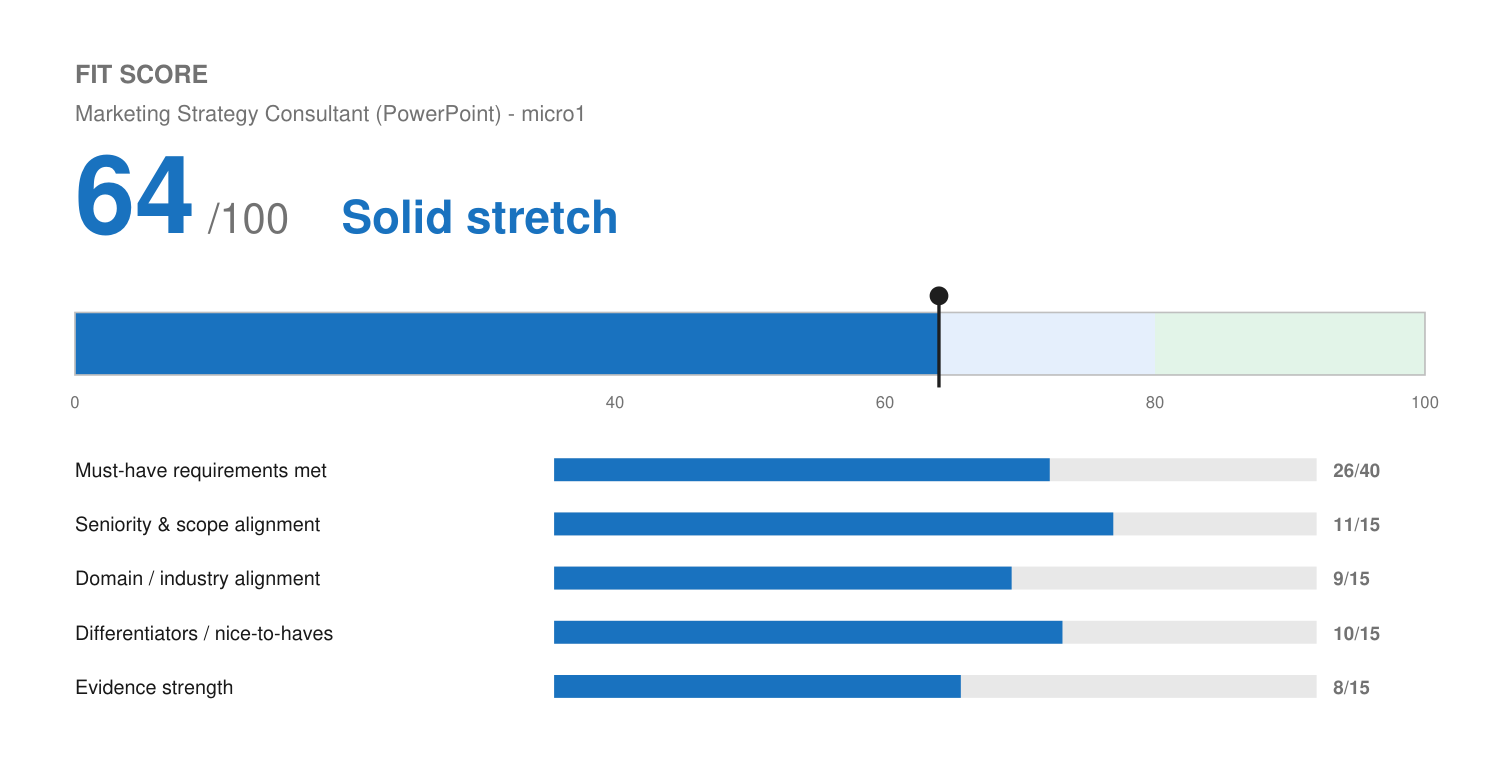
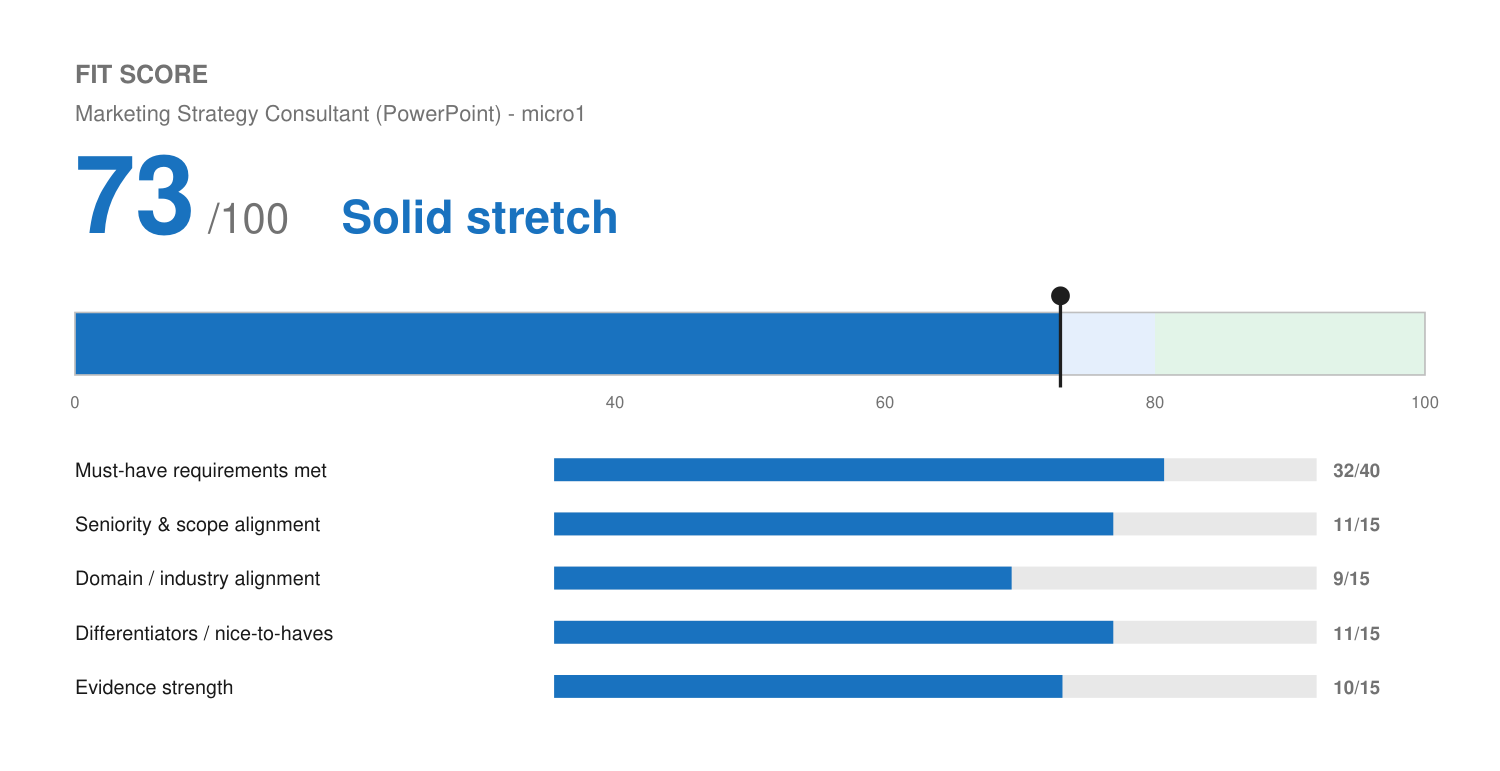
micro1: add interview prep; surface PowerPoint/deck skill (fit 64->73)
Josh confirmed strong deck-building expertise, substantiating the role's
#1 required skill. Updated resume (PowerPoint + executive deck design),
fit score 64->73, match report, and added a grounded interview-prep brief.

Claude-Session: https://claude.ai/code/session_01XNXFguRBAfdeYmwKktthiA

diff --git a/applications/micro1-marketing-strategy-consultant/match-report.md b/applications/micro1-marketing-strategy-consultant/match-report.md
@@ -9,29 +9,33 @@
 
 ## Fit Score
 
+> **Updated 2026-06-21:** Josh confirmed strong PowerPoint / deck-building skill ("I can
+> build a deck better than most"), substantiating the role's #1 required skill. Score
+> revised **64 → 73**; resume updated to surface PowerPoint and executive deck design.
+
 ```
-🔵 Fit Score: 64 / 100 — Solid stretch
-[█████████████░░░░░░░]  64%
+🔵 Fit Score: 73 / 100 — Solid stretch
+[███████████████░░░░░]  73%
 ```
 
-**64 / 100 — Solid stretch.** See `fit.png` for the gauge.
+**73 / 100 — Solid stretch (upper band).** See `fit.png` for the gauge.
 
 | Dimension | Score | Notes |
 | :--- | :--- | :--- |
-| Must-have requirements met | 26 / 40 | Strong on marketing strategy, storytelling, business operations, communication; weak on the two anchor asks — **expert PowerPoint decks** and **Fortune 500 enterprise** experience. |
+| Must-have requirements met | 32 / 40 | PowerPoint/deck craft now confirmed (their #1 ask). Strong on marketing strategy, storytelling, business operations, communication. Remaining soft spot: **Fortune 500 / enterprise** experience. |
 | Seniority & scope alignment | 11 / 15 | Contractor/consultant framing fits a founder-consultant well; flexible hourly contributor level. |
 | Domain / industry alignment | 9 / 15 | Marketing/MarTech domain is strong; the specific "enterprise brand presentation consulting" slant is a partial fit. |
-| Differentiators / nice-to-haves | 10 / 15 | Founder + 15 yrs marketing + genuine AI fluency (a real edge at an AI-training company, even though AI isn't required). |
-| Evidence strength | 8 / 15 | Solid marketing proof (+30% traffic / +25% conversion at Wix; published thought leadership); thin on PowerPoint-specific, enterprise-deck evidence. |
+| Differentiators / nice-to-haves | 11 / 15 | Founder + 15 yrs marketing + strong deck craft + genuine AI fluency (a real edge at an AI-training company, even though AI isn't required). |
+| Evidence strength | 10 / 15 | Solid marketing proof (+30% traffic / +25% conversion at Wix; published thought leadership) plus real decks he can demonstrate in the interview. |
 
-**Band guidance:** Solid stretch → low-cost contractor gig, so apply if interested, but lead hard with **marketing strategy + storytelling** and be ready to show real decks. Two honest gaps below would move this up if closed.
+**Band guidance:** Solid stretch (upper) → invited to interview. Lead with **marketing strategy + storytelling + deck craft** and *show real decks*. The one remaining drag is enterprise/Fortune-500 exposure.
 
 ## Knockouts
 - **None hard.** Remote, contractor, no clearance/license/work-auth/onsite gates.
 - ⚠ Note: "**Demonstrated success in Fortune 500 environments**" is listed as a *required* qualification. It's not a binary auto-reject, but it's a real soft gate (see gaps).
 
 ## Keyword coverage (required skills/quals)
-- ⚠ **Expert-level Microsoft PowerPoint, exec decks for major enterprises** — **GAP / unverified.** Not established in the master profile. Josh builds executive reporting, QBRs, and dashboards (presentation-adjacent), but "expert PowerPoint for Fortune 500" is not substantiated. *Not claimed on the resume.*
+- ✅ **Expert-level Microsoft PowerPoint, exec decks** — **confirmed by Josh** (builds decks "better than most"); now surfaced on the resume (Presentations & Executive Communication + Tools). The "for major enterprises" qualifier is the only part still partial (see Fortune 500 below).
 - ✅ **Marketing strategy** — strong (full-funnel strategy, demand gen, campaign strategy).
 - ⚠ **Branding** — partial (brand narrative, positioning, messaging, thought leadership; not enterprise brand-management).
 - ✅ **Storytelling & communication (written + verbal)** — strong (content strategist, thought leadership, technical translation).
@@ -49,8 +53,8 @@
 4. **AI fluency** — at an AI-training company, Josh's hands-on Claude/ChatGPT/agentic work is a genuine differentiator and signals he understands what high-quality model input looks like.
 
 ## Top gaps (honest, do not paper over)
-1. **PowerPoint expertise — the #1 required skill — is unverified.** The master profile lists Google Workspace/Slides, not PowerPoint or enterprise deck-building. I did **not** fabricate it. **If Josh genuinely has expert PowerPoint + executive-deck experience, tell me and I'll add it** (and it would lift Must-haves and Evidence meaningfully). If not, this role is a weak fit for its central deliverable.
-2. **Fortune 500 / enterprise marketing-team experience.** Real gap. Mitigate by leaning on his time *at* large tech companies (Wix is publicly traded) and the breadth of brands he's advised — but don't overstate.
+1. **Fortune 500 / enterprise marketing-team experience.** Now the primary remaining gap. Mitigate by leaning on his time *at* large tech companies (Wix is publicly traded; Birdeye) and the breadth of brands he's advised — but don't overstate enterprise client history.
+2. **PowerPoint — now resolved.** Josh confirmed strong deck-building skill, so the central deliverable is covered. To *prove* it in the interview, he should bring 1–2 real decks to walk through (see `interview-prep.md`, §4A). Optionally, add a line about this to the master profile so future applications carry it automatically.
 
 ## Metrics / proof needed (ask Josh)
 - Real examples of **executive presentations / decks** he's built (ideally with audience + outcome) — would directly answer the core ask.
@@ -61,7 +65,12 @@
 micro1 vets contributors via an AI recruiter rather than traditional referrals, so a network intro matters less here than for an FTE role. The lever that matters most is a **sample executive deck** demonstrating the PowerPoint/storytelling craft.
 
 ## Honest take
-This is a flexible, low-downside contractor gig that plays to Josh's real strengths (marketing strategy + storytelling + ops) but is anchored on a skill — **expert enterprise PowerPoint** — the profile doesn't substantiate, and it pays well below his FTE trajectory ($30–55/hr vs. the $125K+ roles he's targeting). Worth a quick application **only if** he can back the PowerPoint/enterprise-deck claim with real work; otherwise his energy is better spent on roles like the Compa Onboarding Manager.
+With PowerPoint/deck craft confirmed, this is now a genuine fit for the role's core
+deliverable — marketing strategy + storytelling + strong decks. It's still a flexible
+contractor gig that pays below his FTE trajectory ($30–55/hr vs. the $125K+ roles he's
+targeting), so treat it as good interview reps and possible side income, with the Compa
+Onboarding Manager (79/100) as the higher-priority pursuit. He's been invited to interview —
+see `interview-prep.md`.
 
 ## Output files
 - `resume.pdf` — polished, ATS-safe submission copy (modern, 2 pages, 0.70 fill).

diff --git a/applications/micro1-marketing-strategy-consultant/interview-prep.md b/applications/micro1-marketing-strategy-consultant/interview-prep.md
@@ -1,0 +1,95 @@
+# Interview Prep — Marketing Strategy Consultant (PowerPoint) @ micro1
+
+> Status: invited to interview. Goal of this doc — walk in able to (1) prove the
+> marketing-strategy/storytelling core, (2) handle the two real gaps honestly, and
+> (3) close strong. Everything below is grounded in true experience from the master
+> profile. **Do not claim anything you can't back in conversation.**
+
+## 1. What this interview likely is
+micro1 vets domain *experts* who contribute high-quality input that trains/evaluates
+frontier AI models. So expect the interview to test **depth of real marketing judgment**,
+not buzzwords. Likely components (any combination):
+- A **screening / domain interview** (sometimes AI-led) probing how you think about
+  marketing strategy, branding, and storytelling.
+- A **sample-of-work ask** — they may want to see an actual deck, or have you talk
+  through how you'd structure one. **Have a real executive presentation ready to show
+  or describe in detail.**
+- A **scenario / mini-task** — e.g., "here's a brand and some data; how would you build
+  the narrative?" Be ready to think out loud and structure a story live.
+
+Framing to keep in mind: your "deliverable" as a contributor is *expert reasoning* an AI
+can learn from. They reward people who can **explain the *why*** behind a strategy or a
+slide, not just produce one.
+
+## 2. Your 30-second positioning (open with this energy)
+"15+ years in marketing strategy and operations across SaaS, MarTech, and agency work —
+my core skill is turning complex business ideas, data, and research into a clear narrative
+that gets stakeholders to act. I've done that as a founder advising B2B brands, as a client
+strategist running integrated campaigns and QBRs, and leading growth consultations that
+moved real numbers — like +30% traffic and +25% conversion in an e-commerce portfolio at Wix."
+
+## 3. Proof points — map these true stories to their questions
+Use STAR (Situation–Task–Action–Result). All drawn from real experience:
+
+| Their likely theme | Your true story to tell |
+| :--- | :--- |
+| **Marketing strategy** | Level Agency — owned integrated strategy across inbound, paid, and content as strategic lead; built ROI/CAC/LTV reporting and delivered QBRs with optimization recommendations. |
+| **Storytelling / narrative** | Solenzo — write and publish thought leadership, newsletters, and educational guides that translate systems/CRM/ops concepts into clear narratives for B2B audiences. |
+| **Turning data into a story that drives buy-in** | Solenzo / Level — translate complex marketing and operational data and research into clear recommendations and dashboards that get leadership to act. |
+| **Branding / positioning** | Wix — led growth consultations aligning brand, site architecture, and inbound to lift client traffic/conversion; Solenzo — positioning and messaging for B2B brands. |
+| **Business operations** | Solenzo — systems/process design, RevOps, and full-lifecycle strategy (demand gen → CRM → success) with clear ROI. |
+| **Executive communication** | Level/Wix — presenting strategy, performance, and recommendations directly to clients and leadership; QBRs. |
+| **Measurable impact (have a number ready)** | Wix e-commerce portfolio: **+30% website traffic, +25% conversion.** This is your strongest hard metric — use it. |
+
+## 4. The two gaps — handle them proactively and honestly
+**A. "Expert PowerPoint / executive decks for major enterprises." — THIS IS YOUR STRENGTH.**
+You've said you can build a deck better than most — so make this an asset you *show*, not
+just claim. Plan:
+- **Bring a real deck** (or two) to screen-share or talk through. Pick ones with a clear
+  before/after or a decision they drove.
+- **Talk about your process, not just the output** — this is what an AI-training company
+  rewards. Be ready to articulate: how you find the *one* idea per slide, build a narrative
+  arc (problem → insight → recommendation → ask), make data land visually, cut everything
+  that doesn't drive the decision, and design for the specific audience in the room.
+- **Have a point of view on craft** — e.g., why most corporate decks fail (too many ideas
+  per slide, no narrative spine, decoration over clarity) and how you fix it. A strong
+  opinion here separates you from people who just "know PowerPoint."
+- If they give a live scenario ("here's a brand + data, build the story"), structure out
+  loud: audience → the single takeaway → 3-beat arc → what each slide must prove.
+
+**B. "Demonstrated success in Fortune 500 / large-scale companies."**
+Truthful framing: you've *worked at* large, well-known tech companies (Wix — publicly
+traded; Birdeye) and advised a broad range of B2B brands. Be honest that much of your
+client work is SMB/mid-market, and position that as a strength: "I've owned the whole
+strategy end-to-end, not just one slice — so I understand how the pieces connect."
+
+## 5. Your differentiator — lean into it
+micro1 is an AI-training company. You actually *build* with AI (Claude, ChatGPT, agentic
+workflows). That's a real edge: you understand what high-quality, well-reasoned input looks
+like to a model — which is exactly what they want contributors to produce. Say something
+like: "I use these tools daily and build automated systems with them, so I have a feel for
+what makes expert input genuinely useful for training a model versus generic filler."
+(Note: the role says no AI experience required — so this is a bonus, not a crutch.)
+
+## 6. Smart questions to ask them
+- "What does a great expert contribution look like to you — is it the finished deck, or the
+  reasoning and structure behind it?"
+- "How is the work scoped — per project, per deck, ongoing? What does a typical engagement
+  look like week to week?"
+- "Who's the end audience for these presentations — your enterprise customers' teams, or
+  internal model training, or both?"
+- "How do you evaluate quality and give feedback to contributors?"
+- "What separates your top contributors from the rest?"
+
+## 7. Logistics / pre-interview checklist
+- [ ] Decide your honest PowerPoint story (Section 4A) and **prepare one real deck** to show or describe.
+- [ ] Have the **Wix +30%/+25%** metric and 2–3 STAR stories rehearsed.
+- [ ] Re-read the JD's required skills and have a one-line proof for each.
+- [ ] Clarify contract logistics (hours, rate confirmation at $30–55/hr, time zone).
+- [ ] Quiet space, good camera/mic, resume (PDF) open.
+
+## 8. Honest gut-check
+This is a flexible, low-downside contract that fits your storytelling/strategy strengths —
+but it's anchored on enterprise PowerPoint and pays well under your $125K+ FTE target. Treat
+it as good interview reps and possible side income; keep the Compa Onboarding Manager (79/100
+fit) as the higher-priority pursuit.
